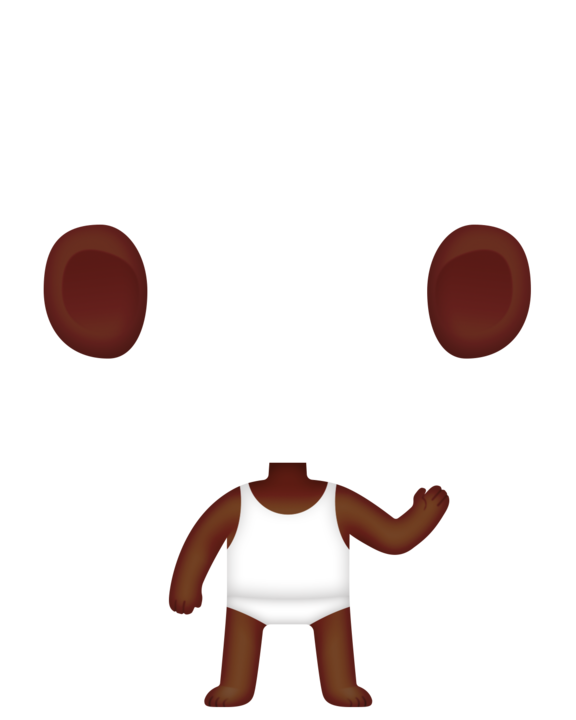
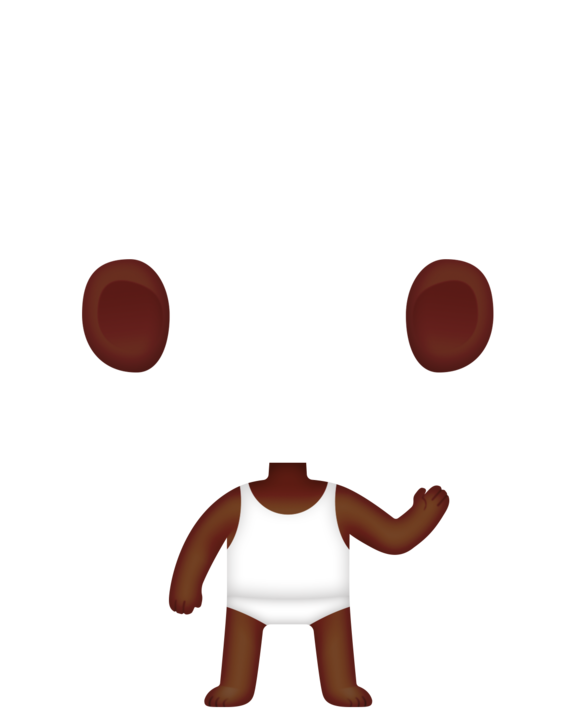
added new clothing

diff --git a/app/assets/stylesheets/_avatar.scss b/app/assets/stylesheets/_avatar.scss
@@ -30,9 +30,9 @@
 }
 #worn-top {
     z-index: 6;
-    top: 206px;
-    left: 0px;
-    width: 100%;
+    top: -11px;
+    left: -21px;
+    width: 117%;
 }
 #worn-hair {
 	z-index: 8;
@@ -46,10 +46,10 @@
     width: 98%;
 }
 #worn-shoe {
-	z-index: 4;
-    top: 205px;
-    width: 100%;
-    left: 0px;
+	z-index: 5;
+    top: -27px;
+    width: 123%;
+    left: -29px;
 }
 #worn-eye {
     z-index: 7;
